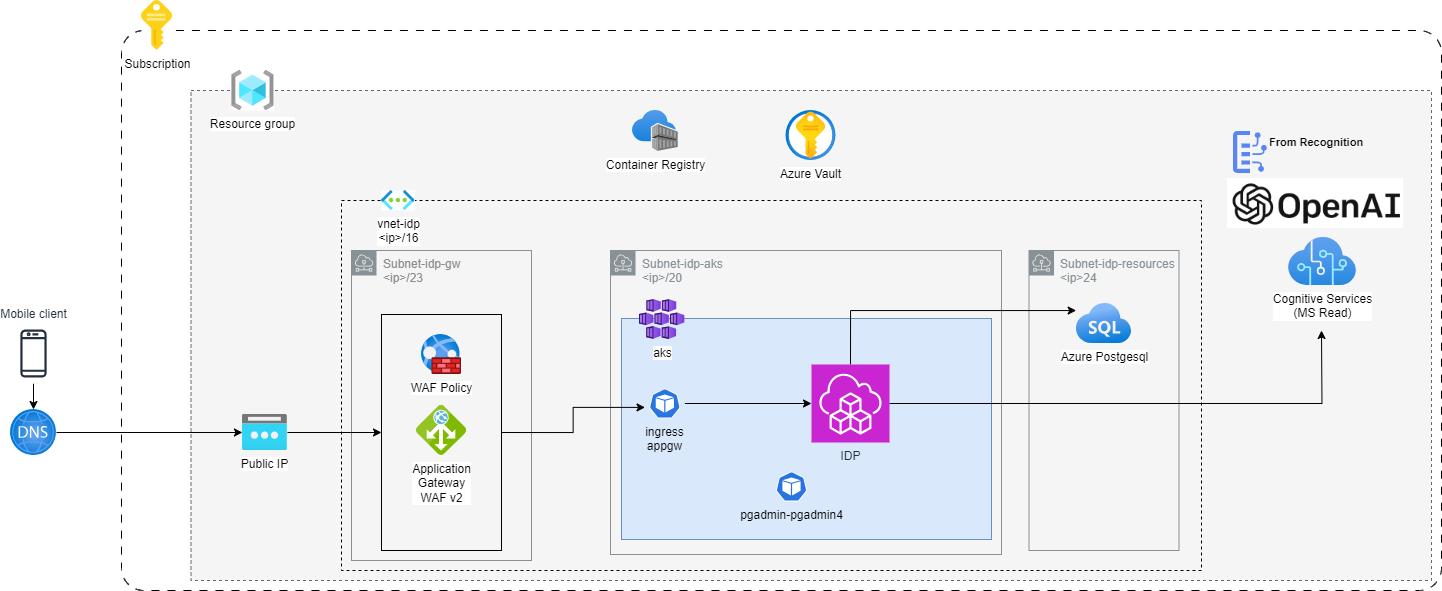
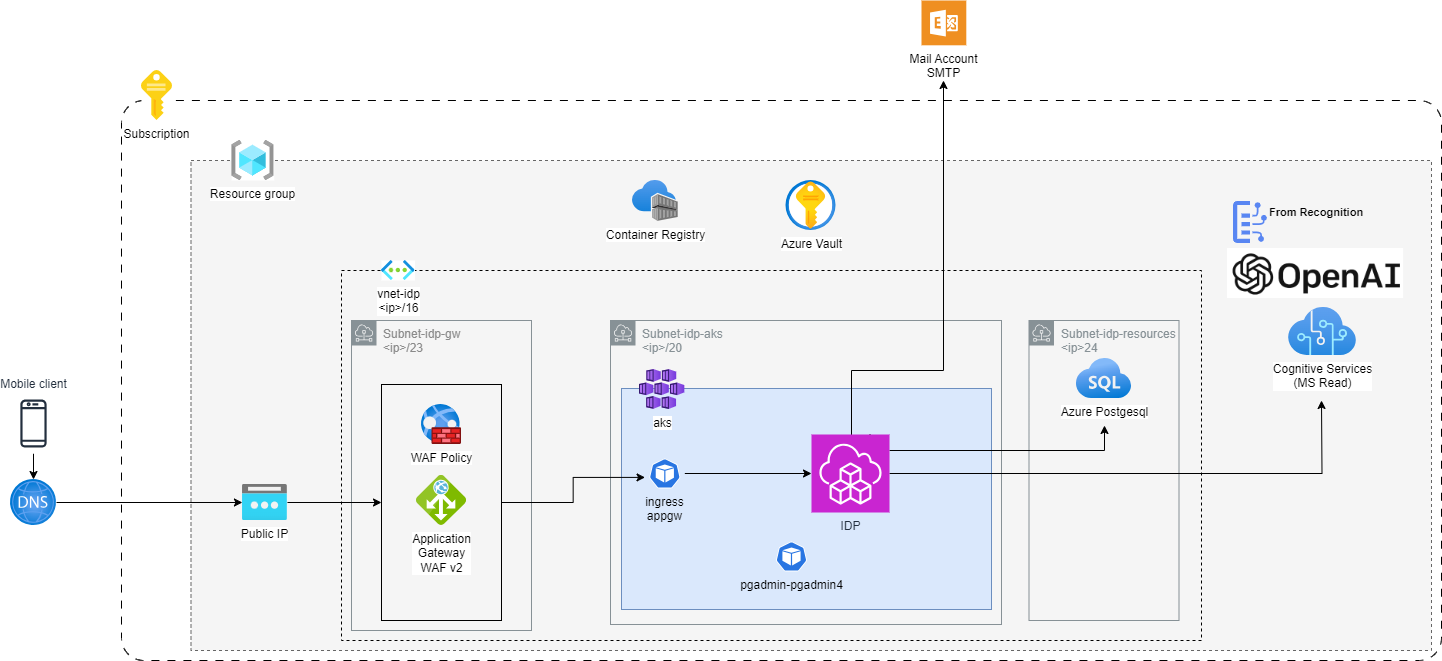
[EDIT] rename idp to cognaio-idp. Improve readme.md

diff --git a/Readme.md b/Readme.md
@@ -43,6 +43,8 @@ This are all AI-Services needed for proper working of the COGNAiO® cloud extrac
 Stores the Images needed for the COGNAiO® cloud extract application can be externally and is not Part of this deployment.
 ### Azure Vault
 Stores all secrets and credentials needed for the COGNAiO® cloud extract application
+### Mail Account (Not part of Terraform)
+Mail account for sending emails from the application to it's user. 
 
 ## Usage
  - Fulfill [prerequisits](#prerequisites)

diff --git a/CHANGELOG.md b/CHANGELOG.md
@@ -1,4 +1,9 @@
 # Change Log
+## Version 0.1.2
+### Changes
+- Add Mail Account in overview image and as part of the description
+
+# Change Log
 ## Version 0.1.1
 ### Changes
 - Adjust supported version in AKS cluster
